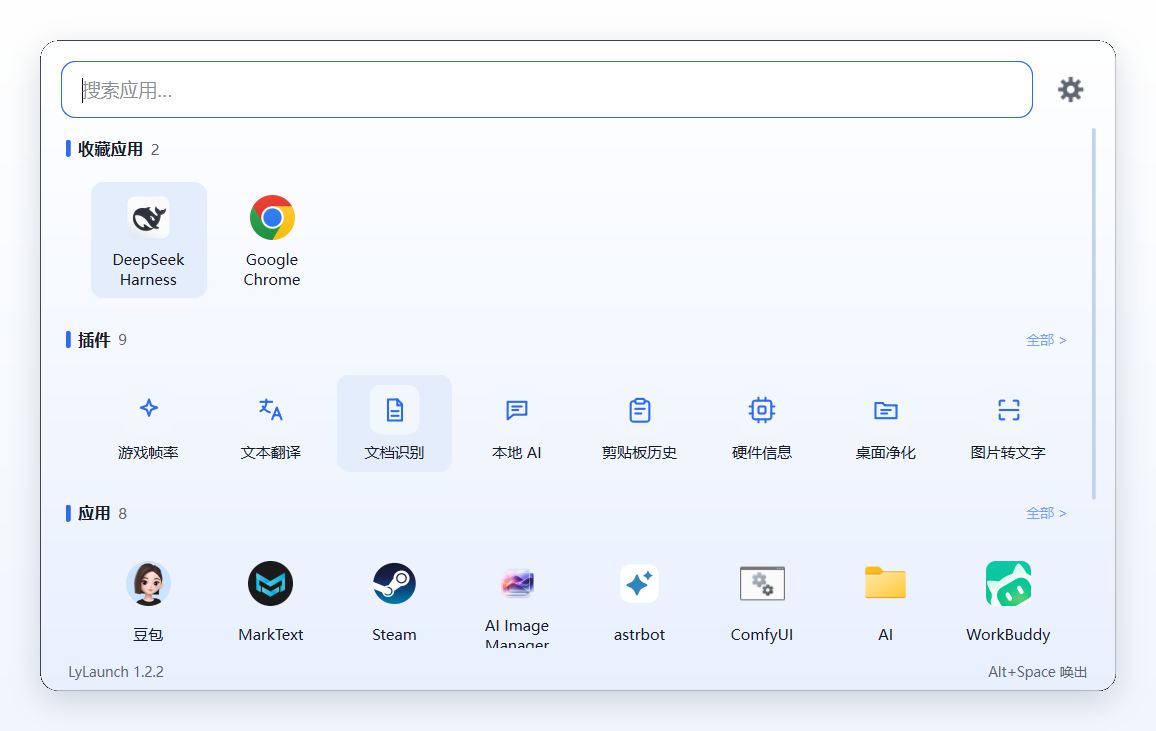
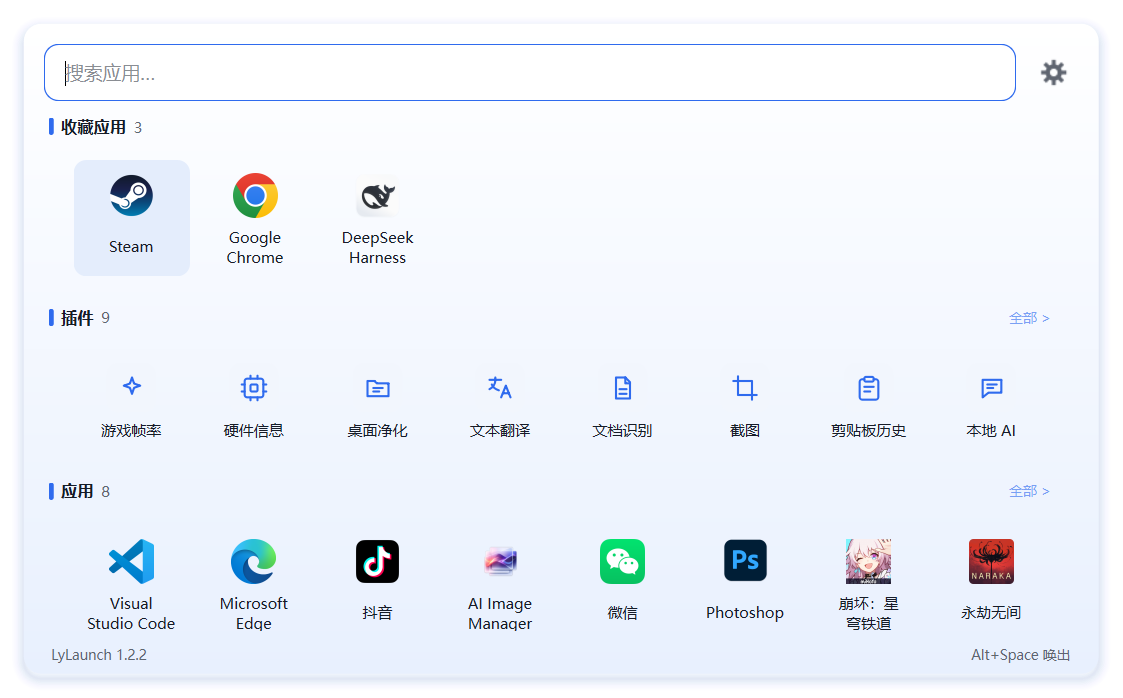
docs: README 补搜索结果截图，「界面」段换成实机两图

diff --git a/README.md b/README.md
@@ -39,7 +39,13 @@ Python · PySide6 · Windows 原生 API · Apache-2.0
 
 ## 界面
 
-首屏那张是主浮窗的真实截图（1.2.2 实机，非示意图）。剩下几个视图——搜索结果、桌面净化、文档识别、设置页——见站点 <https://liyuedev.github.io>。
+<p align="center">
+  <img src="doc/screenshots/search.png" width="88%" alt="输入 wx，微信与微信开发者工具排在最前">
+</p>
+
+输入 `wx` 就出结果 —— 拼音首字母直接命中，不用切输入法，也不用记完整名字。
+
+两张都是实机截图，不是示意图。其余视图（桌面净化、文档识别、设置页）见站点 <https://liyuedev.github.io>。
 
 ## 快速开始
 
